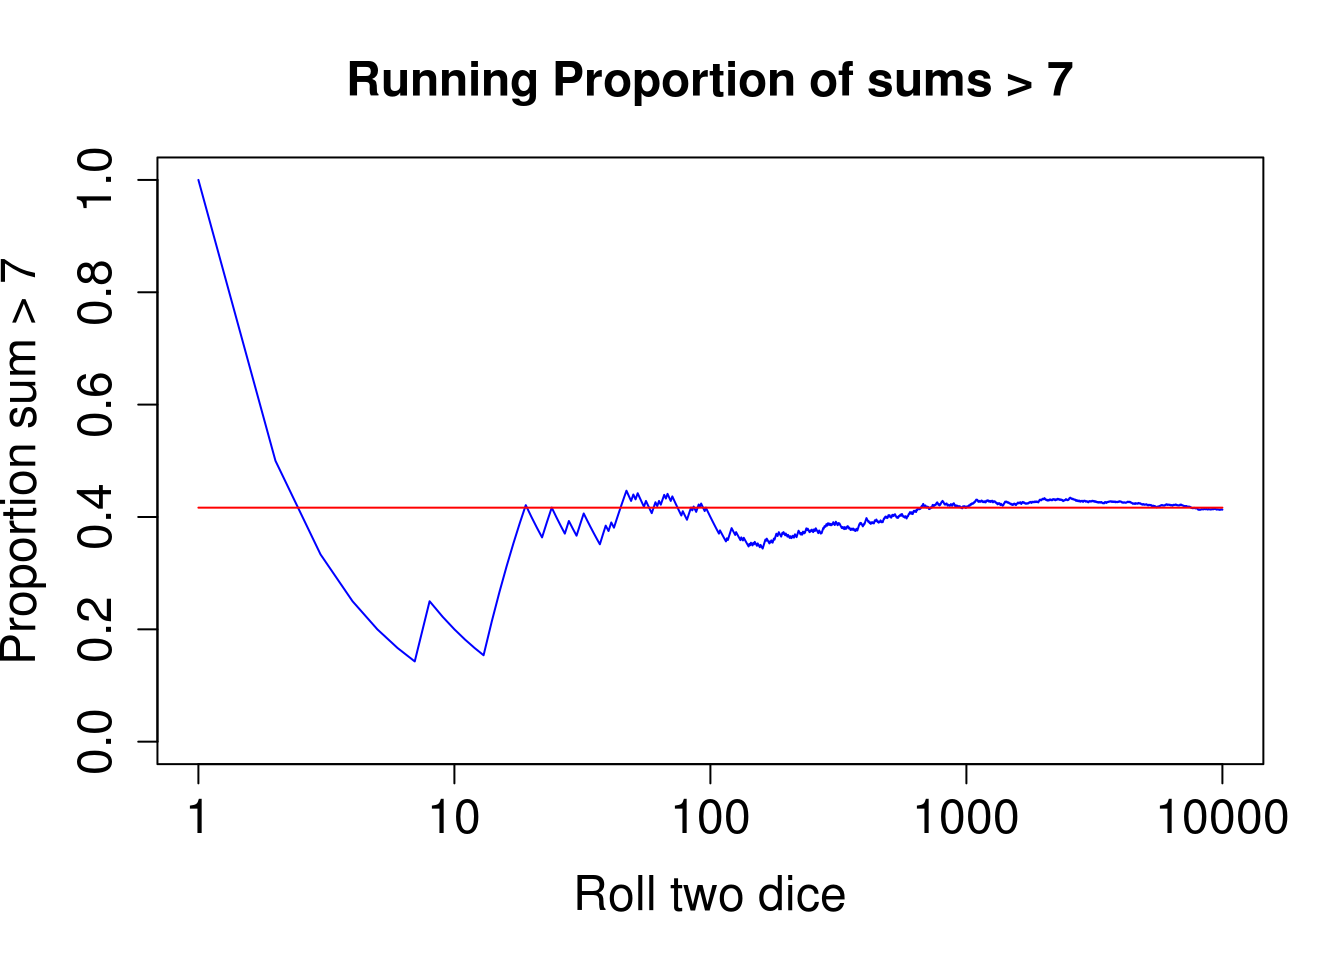
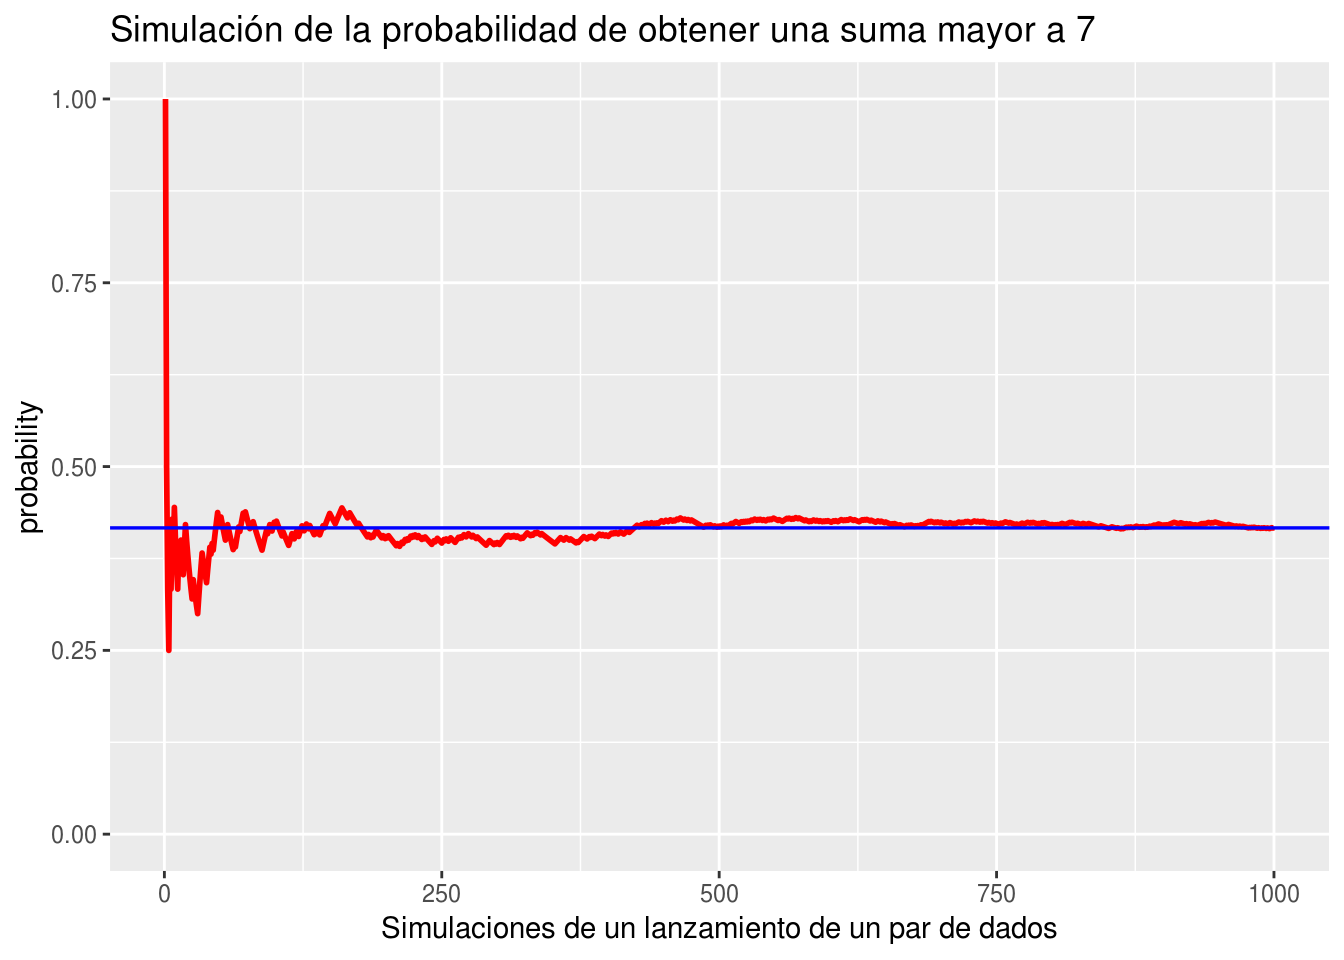
Go!

diff --git a/Intro_p.html b/Intro_p.html
@@ -815,9 +815,9 @@ table(sum_d)/n
 <pre class="r"><code>sum_dados(10000)</code></pre>
 <pre><code>sum_d
      2      3      4      5      6      7      8      9     10     11 
-0.0286 0.0576 0.0817 0.1082 0.1382 0.1608 0.1389 0.1132 0.0903 0.0537 
+0.0271 0.0588 0.0849 0.1092 0.1433 0.1709 0.1347 0.1037 0.0842 0.0554 
     12 
-0.0288 </code></pre>
+0.0278 </code></pre>
 </div>
 <div id="como-resultado-encontramos-una-tabla-con-las-probabilidades-para-todos-los-posibles-resultados-en-el-experimento." class="section level4">
 <h4>Como resultado encontramos una tabla con las probabilidades para todos los posibles resultados en el experimento.</h4>
@@ -825,33 +825,32 @@ table(sum_d)/n
 <div id="pero-si-queremos-saber-la-probabilidad-de-que-la-suma-sea-mayor-que-7" class="section level4">
 <h4>Pero, ¿Si queremos saber la probabilidad de que la suma sea mayor que 7?</h4>
 <pre class="r"><code>sum_dados_mayorq7 &lt;- function(n, p = 0.4166){
+  library(ggplot2)
  z &lt;- 0
  p.run &lt;- rep(0,n)
 for(i in 1:n) {
 sum_d &lt;- sum(sample(1:6,2,T))
-if (sum_d &gt; 7){
+if (sum_d &gt; 7) {
   z &lt;- z + 1
 }
  p.run[i] &lt;- z/i
 }
-  x &lt;- 1:n
-  plot(x,p.run,type = &quot;l&quot;,col = &#39;blue&#39;, log = &#39;x&#39;, 
-       xlim = c(1, n), ylim = c(0.0, 1.0), cex.axis=1.5, 
-       xlab = &#39;Roll two dice&#39;, ylab = &#39;Proportion sum &gt; 7&#39;, cex.lab = 1.5,
-       main = &#39;Running Proportion of sums &gt; 7&#39;, cex.main = 1.5,lty = 1.5)
-  lines(c(1, n), c(p, p), lty = 1, col = &#39;red&#39;)
+ x &lt;- 1:n
+graph &lt;- ggplot(data.frame(x,p.run),aes(x = x, y = p.run)) + 
+  geom_line(col = &quot;red&quot;,size = 1) + ylim(0,1.0) +
+  geom_hline(aes(yintercept = p), color=&quot;blue&quot;, size=0.6) +
+  ggtitle(&quot;Simulación de la probabilidad de obtener una suma mayor a 7&quot;) + 
+  ylab(&quot;probability&quot;) + 
+  xlab(&quot;Simulaciones de un lanzamiento de un par de dados&quot;)
   print(paste(&quot;La probabilidad de obtener una suma mayor a 7 es&quot;,z/n))
+  print(graph)
 }</code></pre>
 </div>
 <div id="ahora-ejecutemos-la-funcion-sum_dados_mayorq7-10-mil-veces." class="section level4">
 <h4>Ahora ejecutemos la función <code>sum_dados_mayorq7</code> 10 mil veces.</h4>
-<pre class="r"><code>sum_dados_mayorq7(10000)</code></pre>
-<p><img src="Intro_p_files/figure-html/unnamed-chunk-4-1.png" width="672" /></p>
-<pre><code>[1] &quot;La probabilidad de obtener una suma mayor a 7 es 0.4131&quot;</code></pre>
-<div class="figure">
-<img src="blanco.png" />
-
-</div>
+<pre class="r"><code>sum_dados_mayorq7(1000)</code></pre>
+<pre><code>[1] &quot;La probabilidad de obtener una suma mayor a 7 es 0.417&quot;</code></pre>
+<p><img src="Intro_p_files/figure-html/unnamed-chunk-4-1.png" width="672" /> <img src="blanco.png" /></p>
 </div>
 </div>
 </div>

diff --git a/st3.html b/st3.html
@@ -258,7 +258,7 @@ print(tabla_freq_discretas(insectos_m))</code></pre>
 <p>Las observaciones son la cantidad de insectos muertos en cada repetición de un total de 40 ensayos o repeticiones del experimento. Según la tabla tenemos por ejemplo que</p>
 <ul>
 <li><p>En seis ensayos murieron de a 8 insectos.</p></li>
-<li><p>En el 10 % de los ensayos murieron de a 6 insectos.</p></li>
+<li><p>En el 10 % de los ensayos murieron de a 6 y 9 insectos.</p></li>
 <li><p>En 22 ensayos murieron entre 3 y 9 insectos.</p></li>
 <li><p>En el 45 % de los ensayos murieron de 9 a 15 insectos.</p></li>
 </ul>
@@ -272,6 +272,7 @@ ggplot(insectos_muertos , aes(x = insectos_muertos$insectos_m)) +
   ggtitle(&quot;Dotplot para el número de insectos muertos - Didier Murillo&quot;)  + xlab(&quot;Número de insectos&quot;) + ylab(&quot;frecuencia&quot;)</code></pre>
 <pre><code>`stat_bindot()` using `bins = 30`. Pick better value with `binwidth`.</code></pre>
 <p><img src="st3_files/figure-html/unnamed-chunk-3-1.png" width="672" /></p>
+<p>Cada punto azul representa una repetición del experimento, por ejemplo murieron 9 nueve insectos en 5 repeticiones.</p>
 </div>
 <div id="ejercicio-2" class="section level3">
 <h3>Ejercicio 2</h3>
@@ -345,6 +346,7 @@ ggplot(class_survey, aes(fill=class_survey$Smoke_Cigarettes,  x=class_survey$Rel
     geom_bar(position=&quot;dodge&quot;) + ggtitle(&quot;Gráfico de barras por grupos - Didier Murillo&quot;) +
   xlab(&quot;Importancia de la Religión&quot;) + ylab(&quot;Número de estudiantes&quot;)</code></pre>
 <p><img src="st3_files/figure-html/unnamed-chunk-8-1.png" width="672" /></p>
+<p>Se observa, que cuando no es importante la religión, aumenta la proporción de estudiantes que fuman.</p>
 <ol start="3" style="list-style-type: lower-alpha">
 <li>Haga un gráfico circular con la variable <code>Religious_Importance</code>. Interprete el gráfico.</li>
 </ol>
